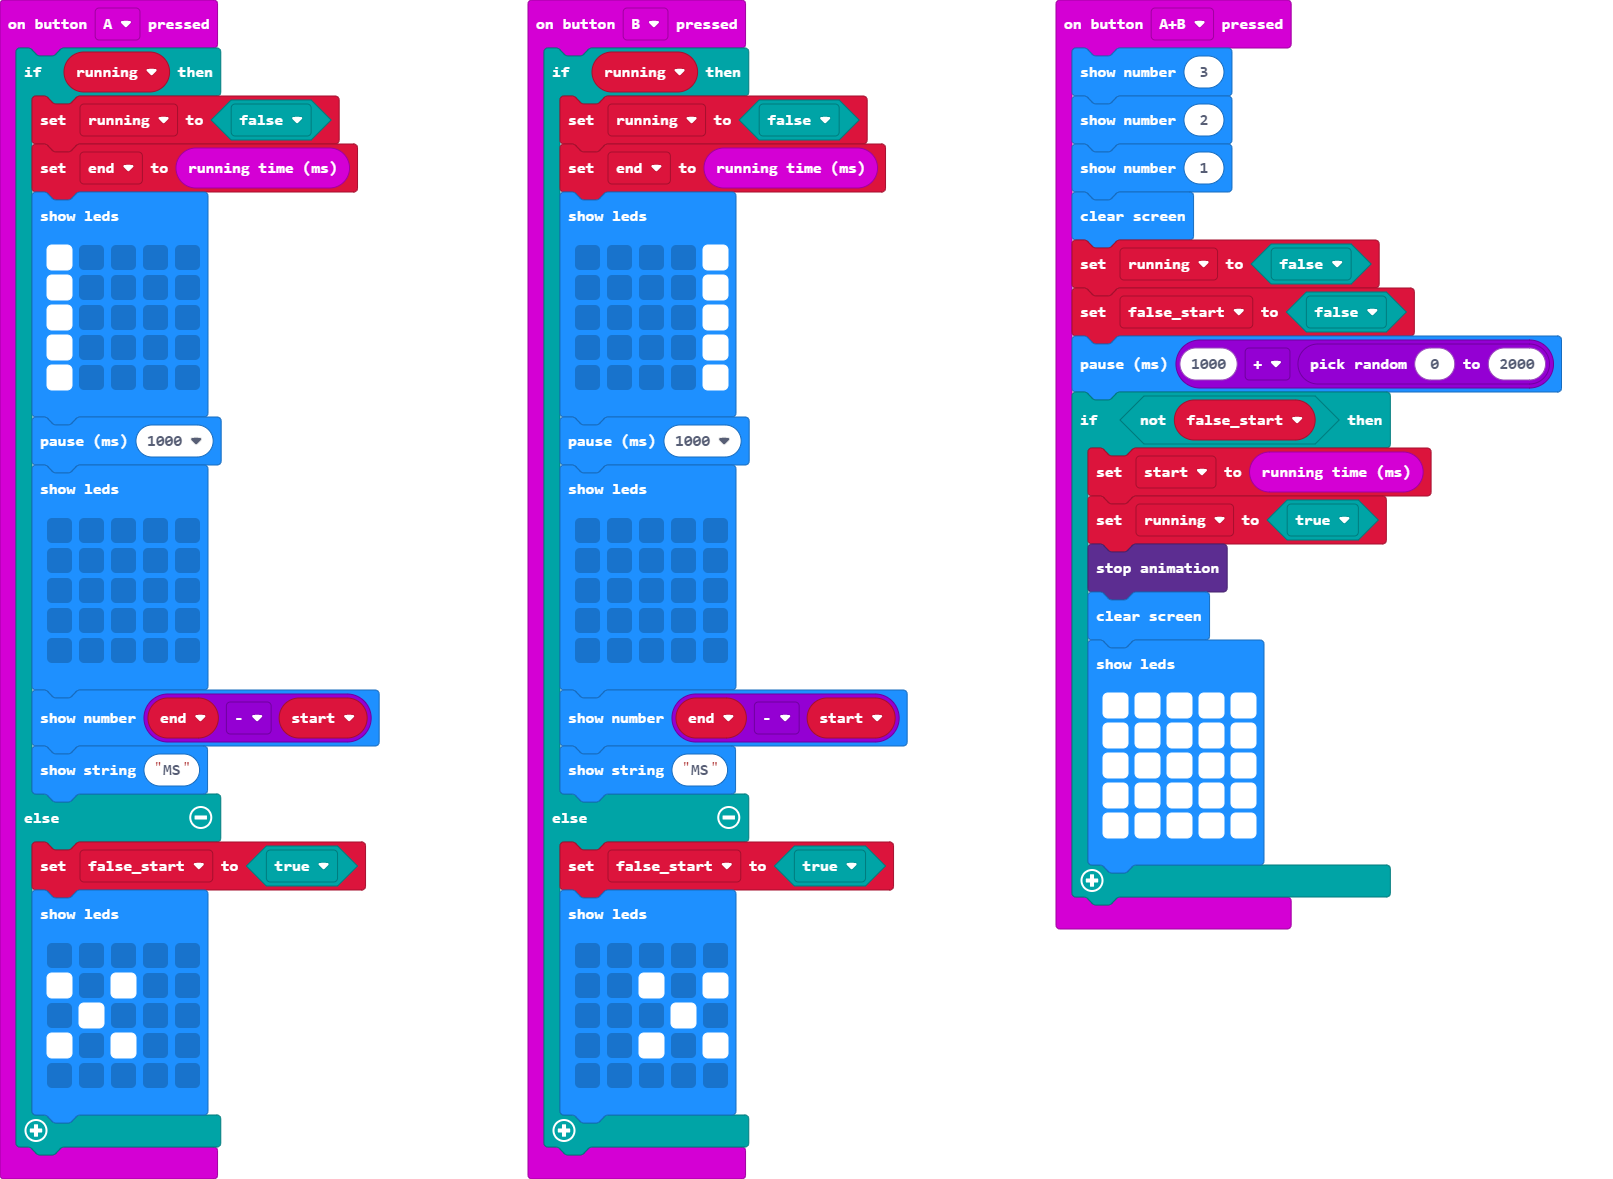
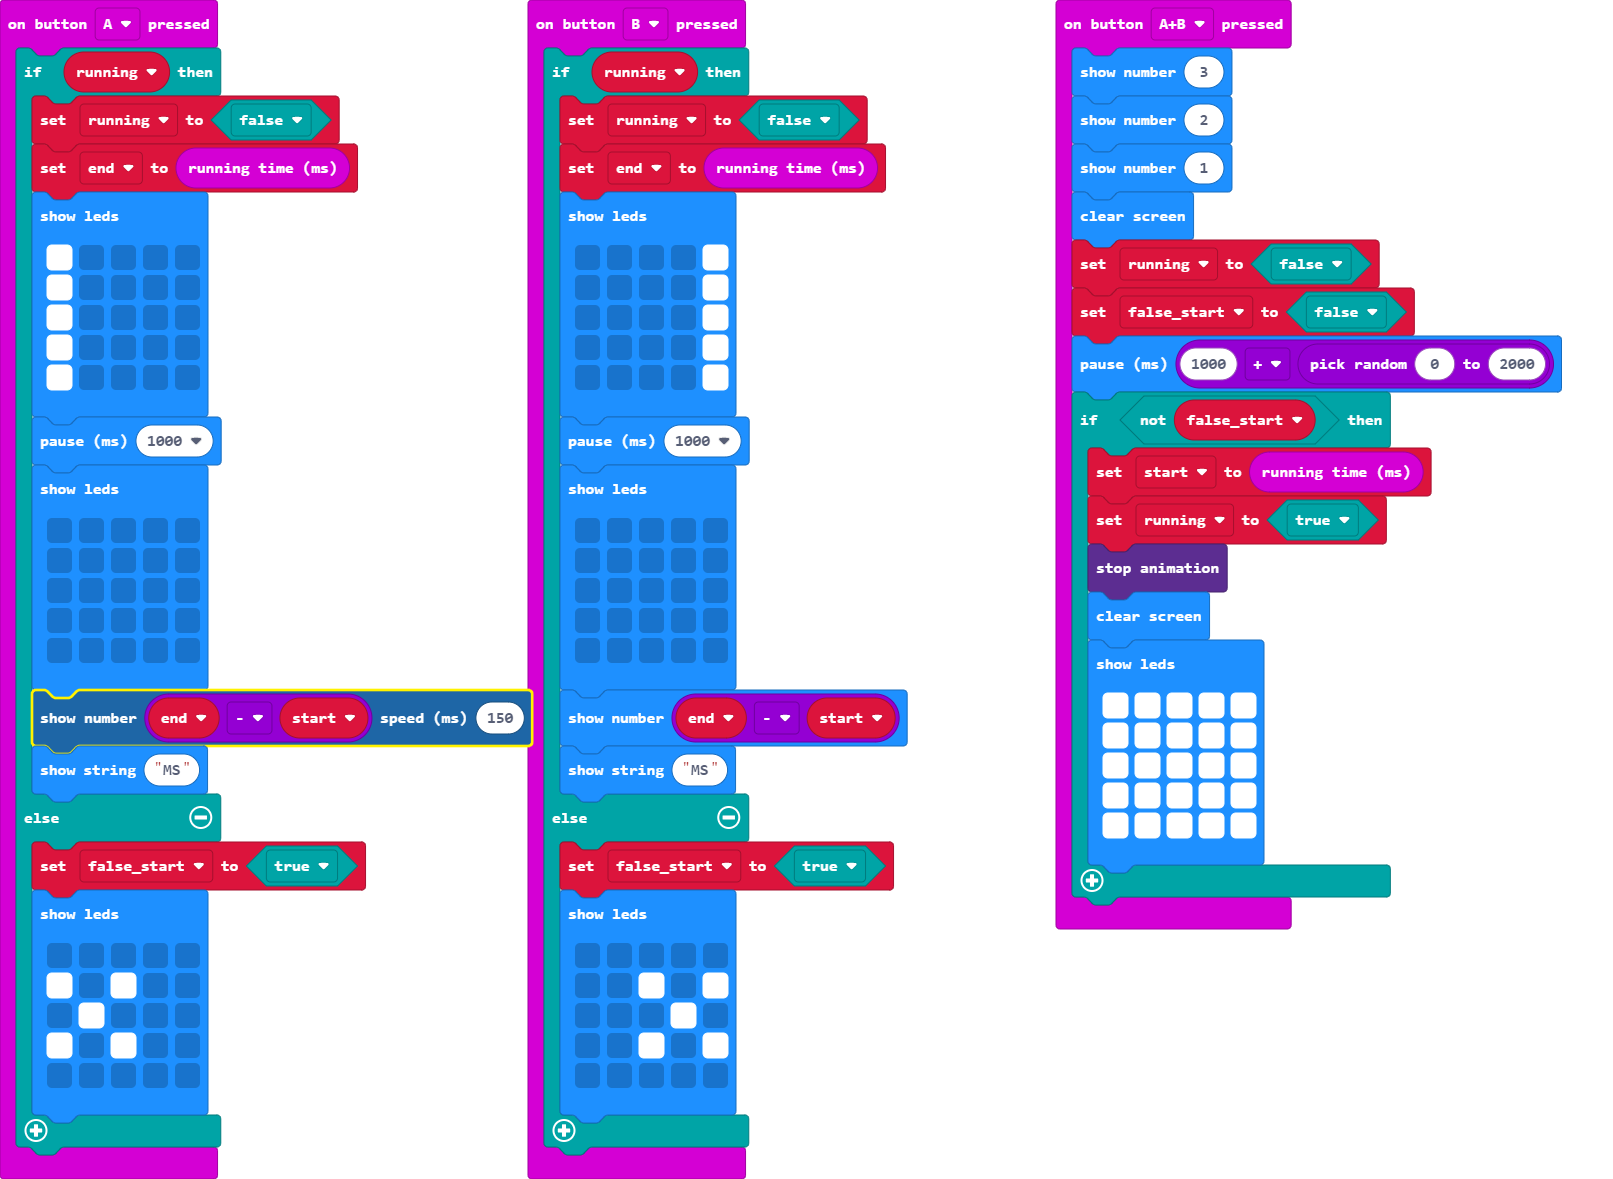
Update pxt.json, main.blocks, main.ts

Changed region(s): [[0.0, 0.5802, 0.341, 0.6412]]

diff --git a/main.ts b/main.ts
@@ -21,7 +21,7 @@ input.onButtonPressed(Button.A, function () {
             . . . . .
             . . . . .
             `)
-        basic.showNumber(end - start)
+        proportionalFont.showNumber(end - start, 150)
         basic.showString("MS")
     } else {
         false_start = true
